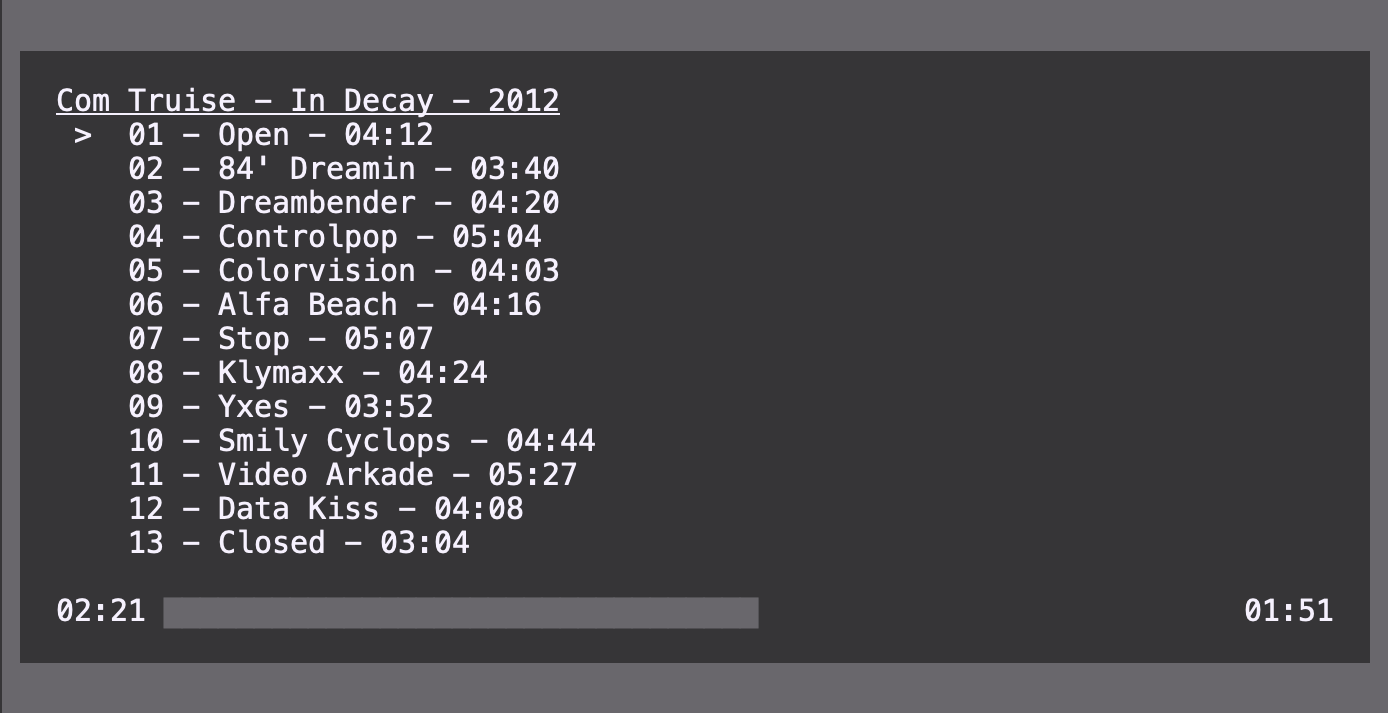
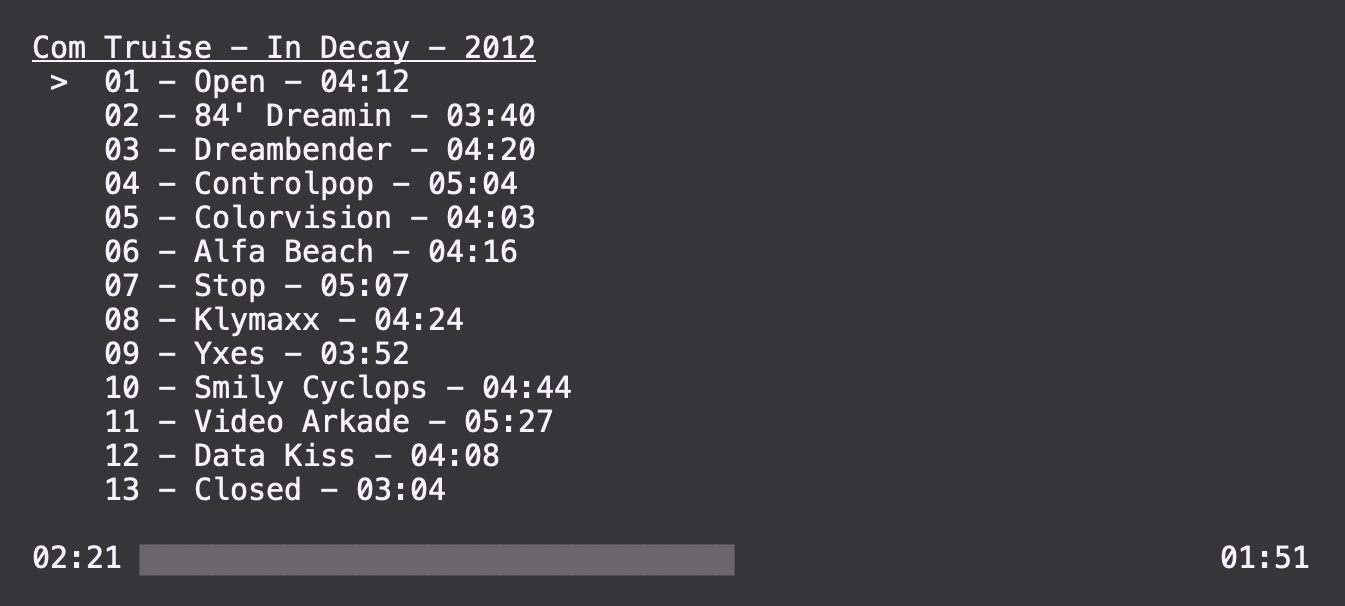
rm and add screenshot to update it

Changed region(s): [[0.0, 0.0, 1.0, 1.0]]

diff --git a/README.md b/README.md
@@ -1,18 +1,19 @@
 tap
 ------------
-tap is a TUI-audio-player for the command line. By default, tap provides shortcuts for fuzzy-finding with `fzf` and `fd`. 
-It is designed to be a fast, minimal player that can load any file or folder with just a few key presses.
+tap is a TUI-audio-player. It's a fast, minimal player that utilizes `fzf` and `fd` commands for rapid file selecting.
+
+<img src="https://github.com/timdubbins/tap/blob/master/doc/screenshot.png" width="650"/>
 
 ### How to use
-1. Run `$ tap /path/to/folder-or-file` (or just `$ tap` to use the current directory as the argument).
+1. Run `$ tap [PATH]` (or just `$ tap` to use the current directory as the argument).
 
-2. If the path can be played it is loaded into the player. If the path contains directories (such as a music folder) then tap opens in `Fuzzy` mode, allowing you to find and select a folder to load into the player.
+2. If `[PATH]` can be played it is loaded into the player. If `[PATH]` contains directories (such as a root music folder) then tap opens in `Fuzzy` mode, allowing you to find and select the folder to load into the player.
 
 3. Playback starts as soon as the player loads.
 
 ### Bindings
 
-- `TAB` - start new fuzzy search
+- `TAB` - start new fuzzy search in `[PATH]`
 
 - `0...9` + `ENTER` - select track by number
 
@@ -28,17 +29,17 @@ It is designed to be a fast, minimal player that can load any file or folder wit
 
 ### Note
 
-- Fuzzy finding is only available when [fzf](https://github.com/junegunn/fzf) and [fd](https://github.com/sharkdp/fd) are installed (tap looks for `fzf` and `fd` in `$PATH`).
+- `Fuzzy` mode depends on [`fzf`](https://github.com/junegunn/fzf) and [`fd`](https://github.com/sharkdp/fd) being installed (tap looks for `fzf` and `fd` in `$PATH`).
 
-- If you used `cargo build` instead of `cargo install` you will need to replace `tap` with the path to the executable. 
+- If you used `cargo build` instead of `cargo install` you will need to replace `tap` with the path to the executable.  
  Alternatively, create an alias with `$ alias tap='/path/to/executable'`.
 
 
 ### Installation
 If you're a Rust programmer, tap can be installed with `cargo`.
 
-- Note that the binary may be bigger than expected because it contains debug symbols. This is intentional. 
-To remove debug symbols and therefore reduce the file size, run strip on the binary.
+- Note that the binary may be bigger than expected because it contains debug symbols.  
+To remove debug symbols run strip on the binary.
 
 Run this command from inside the `tap` directory.
 
